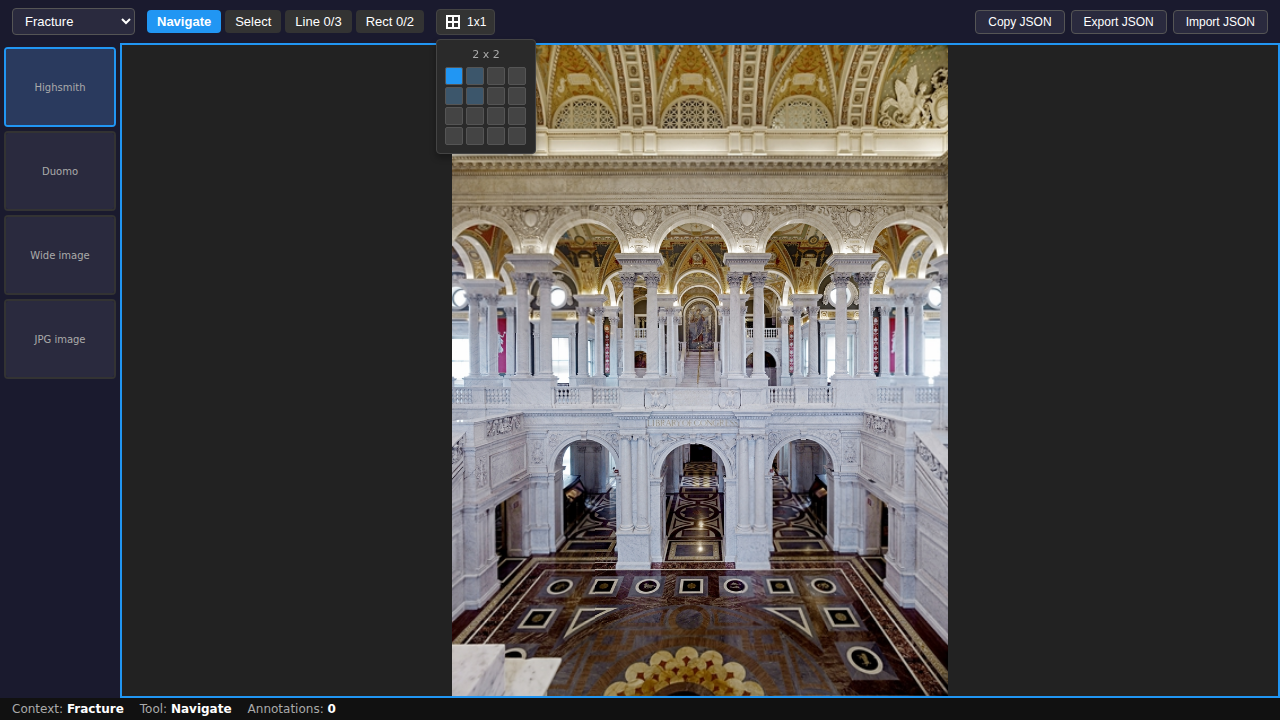
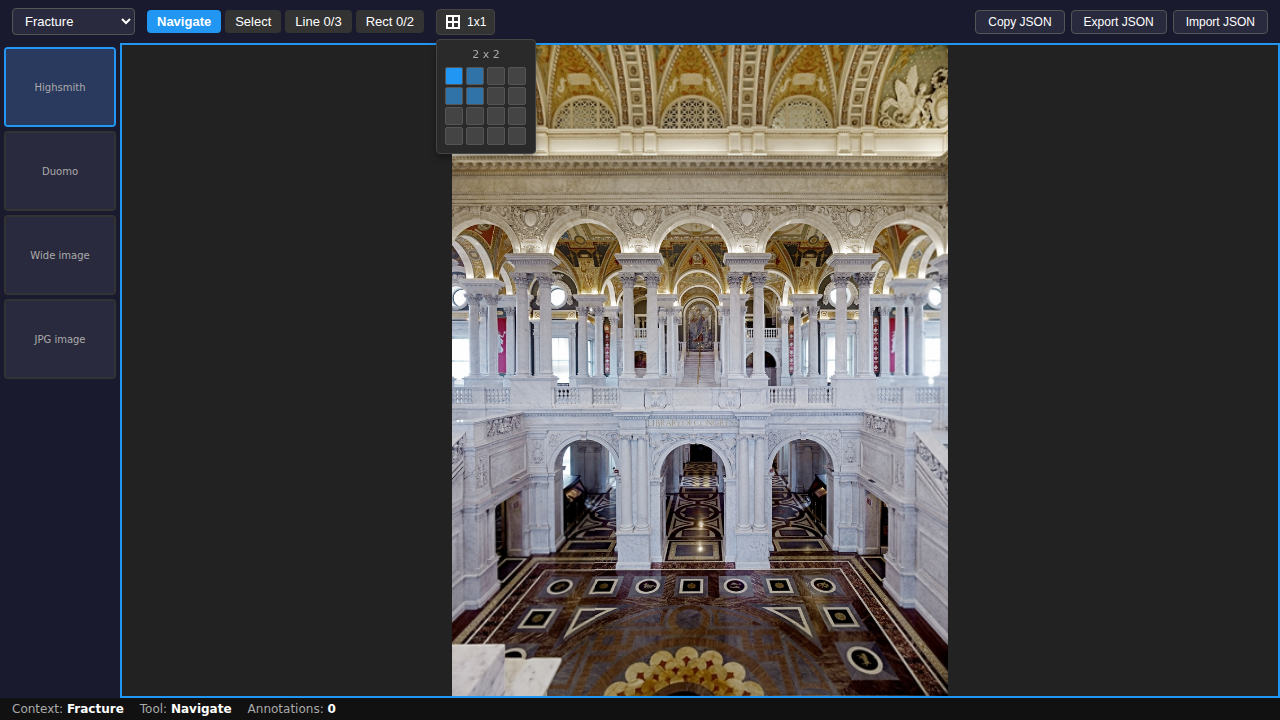
refactor: extract GridControls styles to CSS modules and component
- Extracted inline styles from `GridControls.tsx` to `GridControls.module.css`
- Moved `TableSelector` component to its own file `TableSelector.tsx`
- Updated `GridControls.tsx` to use the new component and CSS module
- Added `css-modules.d.ts` to fix TypeScript error for CSS modules
- Verified functionality with unit tests, type checks, and manual frontend verification script

Changed region(s): [[0.5938, 0.6722, 0.6875, 0.8556], [0.375, 0.4278, 0.4688, 0.4583], [0.3438, 0.0917, 0.375, 0.1528]]

diff --git a/packages/osdlabel/src/components/css-modules.d.ts b/packages/osdlabel/src/components/css-modules.d.ts
@@ -1,0 +1,4 @@
+declare module '*.module.css' {
+  const classes: { [key: string]: string };
+  export default classes;
+}
